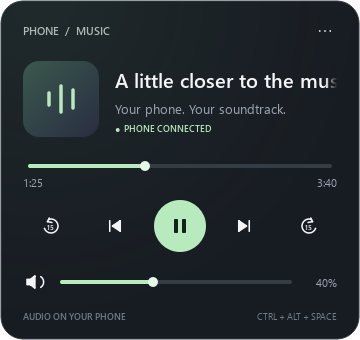
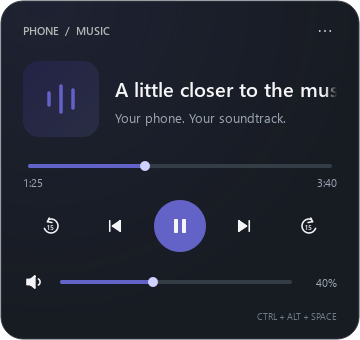
Follow Windows accent, allow custom colours and reflect phone volume

diff --git a/phone_playback/ui.py b/phone_playback/ui.py
@@ -20,6 +20,7 @@ from PySide6.QtGui import (
     QCursor,
     QLinearGradient,
     QRadialGradient,
+    QActionGroup,
 )
 from PySide6.QtWidgets import (
     QApplication,
@@ -31,9 +32,11 @@ from PySide6.QtWidgets import (
     QSystemTrayIcon,
     QMenu,
     QPushButton,
+    QColorDialog,
 )
 from . import core
 from .config import save as save_config
+from .theme import accent_for, foreground_for, volume_symbol
 
 BG = "#171b22"
 FG = "#f5f5f7"
@@ -92,7 +95,7 @@ def symbol(p, name, rect, color=FG):
         path.closeSubpath()
         p.drawPath(path)
         p.drawLine(6, -6, 6, 6)
-    elif name == "volume":
+    elif name.startswith("volume"):
         path = QPainterPath()
         path.moveTo(-8, -3)
         path.lineTo(-4, -3)
@@ -103,7 +106,13 @@ def symbol(p, name, rect, color=FG):
         path.closeSubpath()
         p.drawPath(path)
         p.setBrush(Qt.BrushStyle.NoBrush)
-        p.drawArc(QRectF(-2, -7, 13, 14), -60 * 16, 120 * 16)
+        if name == "volume-muted":
+            p.drawLine(5, -3, 10, 3)
+            p.drawLine(5, 3, 10, -3)
+        elif name in ("volume-medium", "volume-high"):
+            p.drawArc(QRectF(-1, -4, 8, 8), -60 * 16, 120 * 16)
+            if name == "volume-high":
+                p.drawArc(QRectF(-2, -7, 14, 14), -60 * 16, 120 * 16)
     elif name in ("back15", "ahead15"):
         if name == "back15":
             p.scale(-1, 1)
@@ -165,7 +174,7 @@ class IconButton(QWidget):
                 p,
                 self.rect().adjusted(1, 1, -1, -1),
                 self.width() / 2,
-                "#d1f4d5" if self.hovered else ACCENT,
+                QColor(ACCENT).lighter(112).name() if self.hovered else ACCENT,
             )
         elif self.hovered or self.hasFocus():
             rounded(p, self.rect(), 12, "#2b323d")
@@ -174,7 +183,7 @@ class IconButton(QWidget):
             p,
             self.symbol,
             QRectF((self.width() - size) / 2, (self.height() - size) / 2, size, size),
-            "#142019" if self.primary else FG,
+            foreground_for(ACCENT) if self.primary else FG,
         )
 
 
@@ -250,7 +259,7 @@ class Artwork(QWidget):
         path.addRoundedRect(QRectF(self.rect()), radius, radius)
         p.setClipPath(path)
         gradient = QLinearGradient(0, 0, self.width(), self.height())
-        gradient.setColorAt(0, QColor("#3a594d"))
+        gradient.setColorAt(0, QColor(ACCENT).darker(280))
         gradient.setColorAt(1, QColor("#292d42"))
         p.fillRect(self.rect(), gradient)
         if not self.pixmap.isNull():
@@ -305,7 +314,9 @@ class Surface(QWidget):
         p.setRenderHint(QPainter.RenderHint.Antialiasing)
         rounded(p, self.rect().adjusted(1, 1, -1, -1), self.radius, BG)
         gradient = QRadialGradient(self.width() * 0.12, 0, self.width() * 0.9)
-        gradient.setColorAt(0, QColor(108, 171, 123, 25))
+        glow = QColor(ACCENT)
+        glow.setAlpha(25)
+        gradient.setColorAt(0, glow)
         gradient.setColorAt(1, QColor(23, 27, 34, 0))
         p.setBrush(gradient)
         p.setPen(QPen(QColor("#343c45"), 1))
@@ -383,7 +394,7 @@ class Slider(QSlider):
         rounded(p, QRectF(5, 7, max(0, x - 5), 4), 2, ACCENT if self.isEnabled() else "#59616c")
         if self.isEnabled():
             p.setPen(Qt.PenStyle.NoPen)
-            p.setBrush(QColor("#e4f8e6"))
+            p.setBrush(QColor(ACCENT).lighter(170))
             p.drawEllipse(QPoint(round(x), 9), 5, 5)
 
     def value_at(self, e):
@@ -448,8 +459,6 @@ class Panel(Surface):
         text.addWidget(self.title)
         self.artist = label("", 10)
         text.addWidget(self.artist)
-        self.connection = label("●  PHONE CONNECTED", 7, ACCENT, QFont.Weight.DemiBold)
-        text.addWidget(self.connection)
         text.addStretch()
         meta.addLayout(text, 1)
         layout.addLayout(meta)
@@ -488,7 +497,10 @@ class Panel(Surface):
         layout.addSpacing(18)
         volume = QHBoxLayout()
         volume.setSpacing(10)
-        volume.addWidget(IconButton("volume", lambda: None, 22, tip="Phone volume"))
+        self.volume_icon = IconButton("volume-muted", lambda: None, 22, tip="Phone volume")
+        self.volume_icon.setCursor(Qt.CursorShape.ArrowCursor)
+        self.volume_icon.setFocusPolicy(Qt.FocusPolicy.NoFocus)
+        volume.addWidget(self.volume_icon)
         self.volume = Slider(Qt.Orientation.Horizontal)
         self.volume.setRange(0, 100)
         self.volume.setStyleSheet(SLIDER_STYLE)
@@ -505,7 +517,6 @@ class Panel(Surface):
         layout.addLayout(volume)
         layout.addStretch(1)
         footer = QHBoxLayout()
-        footer.addWidget(label("AUDIO ON YOUR PHONE", 7, "#707d88", QFont.Weight.DemiBold))
         footer.addStretch()
         footer.addWidget(label("CTRL + ALT + SPACE", 7, "#707d88"))
         layout.addLayout(footer)
@@ -524,7 +535,9 @@ def tray_icon():
     p = QPainter(pixmap)
     p.setRenderHint(QPainter.RenderHint.Antialiasing)
     rounded(p, QRectF(2, 2, 60, 60), 18, ACCENT)
-    p.setPen(QPen(QColor("#17231c"), 5, Qt.PenStyle.SolidLine, Qt.PenCapStyle.RoundCap))
+    p.setPen(
+        QPen(QColor(foreground_for(ACCENT)), 5, Qt.PenStyle.SolidLine, Qt.PenCapStyle.RoundCap)
+    )
     for x, h in [(20, 12), (32, 28), (44, 19)]:
         p.drawLine(x, 32 - h // 2, x, 32 + h // 2)
     p.end()
@@ -567,7 +580,9 @@ class Taskbar:
 
 class Controller:
     def __init__(self):
+        global ACCENT
         self.settings = core.CONFIG
+        ACCENT = accent_for(self.settings)
         self.state = {}
         self.connected = False
         self.last_pos = 0
@@ -593,12 +608,22 @@ class Controller:
         self.dock_action.setCheckable(True)
         self.dock_action.setChecked(self.settings.get("show_dock", True))
         self.dock_action.toggled.connect(self.toggle_dock)
+        theme_menu = self.menu.addMenu("Theme colour")
+        self.theme_group = QActionGroup(self.menu)
+        self.windows_theme = theme_menu.addAction("Follow Windows accent")
+        self.custom_theme = theme_menu.addAction("Choose custom colour…")
+        for action in (self.windows_theme, self.custom_theme):
+            action.setCheckable(True)
+            self.theme_group.addAction(action)
+        self.windows_theme.triggered.connect(self.follow_windows_theme)
+        self.custom_theme.triggered.connect(self.choose_custom_colour)
         self.menu.addSeparator()
         self.menu.addAction("Quit Phone Playback", self.quit)
         self.tray = QSystemTrayIcon(tray_icon())
         self.tray.setToolTip("Phone Playback · connecting")
         self.tray.setContextMenu(self.menu)
         self.tray.activated.connect(self.tray_activated)
+        self.apply_theme(force=True)
         if not PREVIEW:
             self.tray.show()
         self.pill.title.setText("Connecting to phone…")
@@ -632,6 +657,45 @@ class Controller:
 
     def save_settings(self):
         save_config(self.settings)
+
+    def apply_theme(self, force=False):
+        global ACCENT
+        colour = accent_for(self.settings)
+        custom = self.settings.get("theme_source") == "custom"
+        self.windows_theme.setChecked(not custom)
+        self.custom_theme.setChecked(custom)
+        if not force and colour == ACCENT:
+            return
+        ACCENT = colour
+        selected = QColor(ACCENT).darker(280).name()
+        self.menu.setStyleSheet(
+            "QMenu {background:#20262f; color:#e9edf1; border:1px solid #3c4550; padding:6px;} "
+            "QMenu::item {padding:8px 18px;} QMenu::item:selected {background:" + selected + ";}"
+        )
+        icon = tray_icon()
+        self.tray.setIcon(icon)
+        QApplication.setWindowIcon(icon)
+        for surface in (self.pill, self.panel):
+            surface.update()
+            for widget in surface.findChildren(QWidget):
+                widget.update()
+
+    def follow_windows_theme(self):
+        self.settings["theme_source"] = "windows"
+        self.save_settings()
+        self.apply_theme(force=True)
+
+    def choose_custom_colour(self):
+        self.menu_open = True
+        try:
+            colour = QColorDialog.getColor(QColor(ACCENT), self.panel, "Accent colour")
+            if colour.isValid():
+                self.settings.update(theme_source="custom", accent_colour=colour.name())
+                self.save_settings()
+            self.apply_theme(force=True)
+        finally:
+            self.menu_open = False
+            self.opened_at = time.monotonic()
 
     def toggle_dock(self, on):
         self.settings["show_dock"] = on
@@ -759,8 +823,6 @@ class Controller:
             (value.get("device_name", "Phone") + "  /  " + value.get("player", "Player")).upper()
         )
         self.panel.source.setToolTip("Choose phone player")
-        self.panel.connection.setText("●  PHONE CONNECTED")
-        self.panel.connection.setStyleSheet("color:" + ACCENT)
         for art in (self.pill.art, self.panel.art):
             art.setPath(value.get("localAlbumArtUrl", ""))
         name = "pause" if value.get("isPlaying") else "play"
@@ -776,10 +838,14 @@ class Controller:
             button.setEnabled(available and bool(value.get("canSeek")))
         self.panel.seek.setEnabled(available and bool(value.get("canSeek")))
         self.panel.volume.setEnabled(available)
+        self.panel.volume_icon.setEnabled(available)
         self.panel.seek.setRange(0, max(1, value.get("length", 0)))
         if not self.panel.volume.isSliderDown():
             self.panel.volume.setValue(value.get("volume", 0))
         self.panel.volume_text.setText(str(value.get("volume", 0)) + "%")
+        self.panel.volume_icon.symbol = volume_symbol(value.get("volume", 0))
+        self.panel.volume_icon.setToolTip(f"Phone volume: {value.get('volume', 0)}%")
+        self.panel.volume_icon.update()
         self.tray.setToolTip(
             (
                 title
@@ -796,9 +862,6 @@ class Controller:
         self.connected = False
         self.pill.title.setText("Phone disconnected")
         self.pill.play.setEnabled(False)
-        self.panel.connection.setText("●  PHONE DISCONNECTED")
-        self.panel.connection.setStyleSheet("color:#e4bc87")
-        self.panel.connection.setToolTip(message)
         self.panel.title.setText("Connect your phone")
         self.panel.artist.setText(message[:40])
         self.tray.setToolTip("Phone Playback · disconnected")
@@ -806,6 +869,8 @@ class Controller:
             button.setEnabled(False)
         self.panel.seek.setEnabled(False)
         self.panel.volume.setEnabled(False)
+        self.panel.volume_icon.setEnabled(False)
+        self.panel.volume_icon.setToolTip("Phone volume unavailable")
 
     def poll(self):
         now = time.monotonic()
@@ -830,6 +895,7 @@ class Controller:
             elif kind == "hotkeys" and value:
                 self.menu.addAction("Shortcut unavailable: " + ", ".join(value)).setEnabled(False)
         if now - self.last_position_check > 1:
+            self.apply_theme()
             self.position_dock()
             self.last_position_check = now
         pos = QCursor.pos()

diff --git a/phone_playback/theme.py b/phone_playback/theme.py
@@ -1,0 +1,55 @@
+"""Read the Windows colour scheme and resolve the app's accent preference."""
+
+import ctypes as C
+from ctypes import wintypes as W
+from PySide6.QtGui import QColor
+
+FALLBACK = "#b7ebbe"
+
+
+def windows_accent():
+    try:
+        get_colour = C.WinDLL("dwmapi").DwmGetColorizationColor
+        get_colour.argtypes = [C.POINTER(W.DWORD), C.POINTER(W.BOOL)]
+        get_colour.restype = C.c_long
+        colour, opaque = W.DWORD(), W.BOOL()
+        if get_colour(C.byref(colour), C.byref(opaque)) == 0:
+            # DWM returns AARRGGBB; widgets use the opaque RGB component.
+            return f"#{colour.value & 0xFFFFFF:06x}"
+    except (OSError, AttributeError):
+        pass
+    return None
+
+
+def accent_for(settings):
+    if settings.get("theme_source") == "custom":
+        colour = QColor(settings.get("accent_colour", ""))
+        if colour.isValid():
+            return colour.name()
+    return windows_accent() or FALLBACK
+
+
+def foreground_for(accent):
+    def luminance(value):
+        colour = QColor(value)
+        channels = [colour.redF(), colour.greenF(), colour.blueF()]
+        linear = [v / 12.92 if v <= 0.04045 else ((v + 0.055) / 1.055) ** 2.4 for v in channels]
+        return sum(v * weight for v, weight in zip(linear, (0.2126, 0.7152, 0.0722)))
+
+    background = luminance(accent)
+    choices = ("#142019", "#f5f5f7")
+    return max(
+        choices,
+        key=lambda c: (max(background, luminance(c)) + 0.05)
+        / (min(background, luminance(c)) + 0.05),
+    )
+
+
+def volume_symbol(volume):
+    if volume <= 0:
+        return "volume-muted"
+    if volume <= 33:
+        return "volume-low"
+    if volume <= 66:
+        return "volume-medium"
+    return "volume-high"

diff --git a/tests/test_ui.py b/tests/test_ui.py
@@ -98,6 +98,35 @@ class InteractionTests(unittest.TestCase):
         self.assertFalse(c.panel.play.isEnabled())
         self.assertFalse(c.panel.seek.isEnabled())
 
+    def test_icon_uses_phone_reported_volume(self):
+        c = self.controller
+        for volume, icon in ((0, "muted"), (10, "low"), (50, "medium"), (90, "high")):
+            c.apply_state({**c.state, "volume": volume})
+            self.assertEqual(c.panel.volume_icon.symbol, "volume-" + icon)
+            self.assertIn(str(volume) + "%", c.panel.volume_icon.toolTip())
+
+    def test_custom_colour_persists_and_windows_changes_refresh(self):
+        c = self.controller
+        with (
+            patch.object(m.QColorDialog, "getColor", return_value=m.QColor("#ea580c")),
+            patch.object(m, "save_config") as save,
+        ):
+            c.choose_custom_colour()
+            self.assertEqual(c.settings["accent_colour"], "#ea580c")
+            self.assertEqual(m.ACCENT, "#ea580c")
+            self.assertTrue(c.custom_theme.isChecked())
+            save.assert_called_once()
+        with (
+            patch("phone_playback.theme.windows_accent", return_value="#2563eb"),
+            patch.object(m, "save_config"),
+        ):
+            c.follow_windows_theme()
+            self.assertEqual(m.ACCENT, "#2563eb")
+            self.assertTrue(c.windows_theme.isChecked())
+        with patch("phone_playback.theme.windows_accent", return_value="#8b5cf6"):
+            c.apply_theme()
+            self.assertEqual(m.ACCENT, "#8b5cf6")
+
     def test_marquee_and_layout(self):
         c = self.controller
         self.clock.now += 5

diff --git a/tests/test_theme.py b/tests/test_theme.py
@@ -1,0 +1,32 @@
+import unittest
+from unittest.mock import patch
+from phone_playback.theme import accent_for, foreground_for, volume_symbol
+
+
+class ThemeTests(unittest.TestCase):
+    def test_default_follows_windows_and_custom_takes_precedence(self):
+        with patch("phone_playback.theme.windows_accent", return_value="#2563eb"):
+            self.assertEqual(accent_for({}), "#2563eb")
+            self.assertEqual(
+                accent_for({"theme_source": "custom", "accent_colour": "#ea580c"}), "#ea580c"
+            )
+            self.assertEqual(
+                accent_for({"theme_source": "custom", "accent_colour": "invalid"}), "#2563eb"
+            )
+
+    def test_foreground_changes_to_stay_readable(self):
+        self.assertEqual(foreground_for("#ffffff"), "#142019")
+        self.assertEqual(foreground_for("#000000"), "#f5f5f7")
+
+    def test_volume_level_boundaries(self):
+        expected = {
+            0: "muted",
+            1: "low",
+            33: "low",
+            34: "medium",
+            66: "medium",
+            67: "high",
+            100: "high",
+        }
+        for value, suffix in expected.items():
+            self.assertEqual(volume_symbol(value), "volume-" + suffix)

diff --git a/README.md b/README.md
@@ -36,6 +36,8 @@ KDE Connect's installer and Microsoft Store paths are detected. If detection fai
 - Drag the strip horizontally to a free area of your taskbar. It overlays the taskbar and **does not reserve space** or modify Explorer.
 - Click the green equalizer tray icon to open controls; middle-click toggles playback. Windows may initially hide it behind the **^** arrow.
 - Right-click for phone selection, tray-only mode or Quit.
+- **Theme colour → Follow Windows accent** uses the Windows colour scheme by default and updates when it changes. **Choose custom colour…** opens a colour picker; your choice is saved between launches. The accent applies to playback, sliders, the tray icon and the panel glow.
+- The speaker icon follows the phone-reported volume: muted, low, medium or high.
 - The strip hides for a foreground fullscreen app. Vertical and hidden taskbars use the tray or shortcuts.
 - Playback and volume controls act on the selected phone, not on the PC.
 
